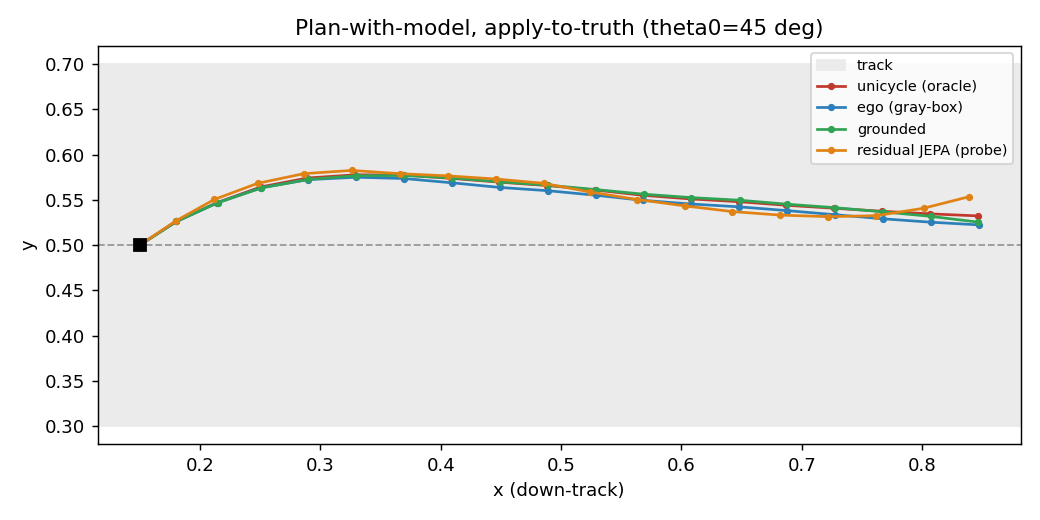
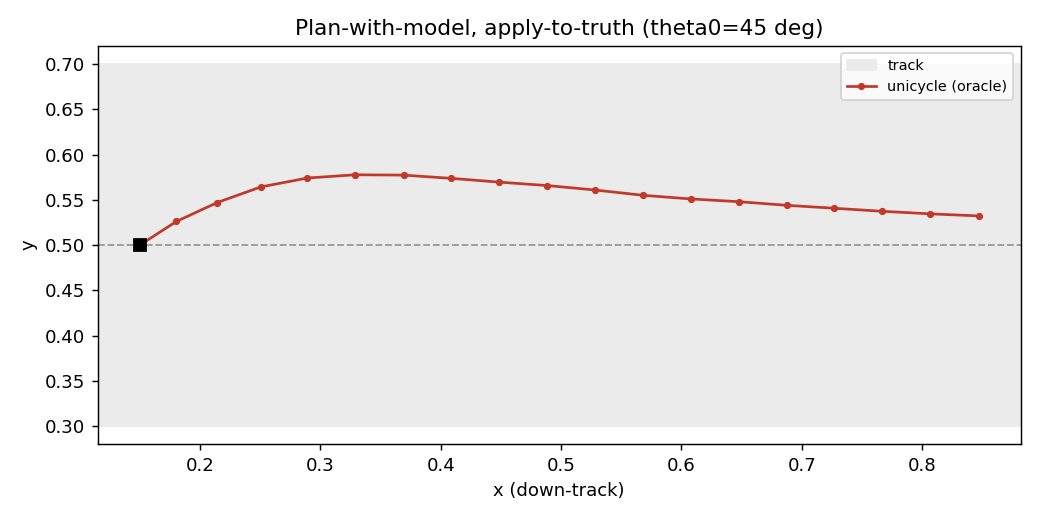
Fix JEPA pose decode in world-model MPC - invert the readout's standardization (state_head outputs standardized pose) so the controller reads real units

Changed region(s): [[0.1231, 0.3077, 0.9538, 0.4615], [0.7692, 0.0923, 0.9846, 0.3077], [0.7692, 0.0923, 0.8, 0.1231]]

diff --git a/run_track_mpc_wm.py b/run_track_mpc_wm.py
@@ -95,6 +95,17 @@ def build_neural(name, a):
     model.load_state_dict(sd, strict=False)
     model = model.to(dev).eval()
 
+    # JEPA's readout head outputs STANDARDIZED pose (run.py trains it against (pose-mean)/std).
+    # Recover the train-set stats so pose() can invert it back to world units [0,1] + true heading.
+    anchor_mean = anchor_std = None
+    if not physical:
+        import h5py
+        from models.jepa import state_to_target
+        with h5py.File(C.DATASETS_DIR / f"{a.run}.h5", "r") as f:
+            states = torch.from_numpy(f["states"][:]).float()
+        T = state_to_target(states)
+        anchor_mean = T.mean(0).numpy(); anchor_std = (T.std(0) + 1e-6).numpy()
+
     def to_frame(frame):
         return torch.from_numpy(np.asarray(frame, np.float32)).view(1, 1, g, g).to(dev)
 
@@ -121,7 +132,8 @@ def build_neural(name, a):
         @torch.no_grad()
         def pose(S):                                  # latent -> pose via the readout PROBE
             z = torch.from_numpy(S.astype(np.float32)).to(dev)
-            p = model.state_head(z).cpu().numpy()      # (K,4) [x,y,cos,sin] (may need de-standardizing)
+            p = model.state_head(z).cpu().numpy()      # (K,4) STANDARDIZED [x,y,cos,sin]
+            p = p * anchor_std + anchor_mean           # invert standardization -> world units
             return pose_from_xycs(p)
 
     return observe, dynamics, pose, latent_dim, label
@@ -178,6 +190,8 @@ def parse_args():
                    help="shortcut when running a single --model")
     p.add_argument("--grid-size", type=int, default=64)
     p.add_argument("--marker", default="ring")
+    p.add_argument("--run", default="run07_64x64_ring",
+                   help="dataset whose pose stats de-standardize the JEPA readout (match its training data)")
     p.add_argument("--dt", type=float, default=C.DT)
     p.add_argument("--v", type=float, default=0.4, help="fixed forward speed (world [0,1] units)")
     p.add_argument("--track-width", type=float, default=0.4, help="track width (|y - y_c| <= W/2)")
